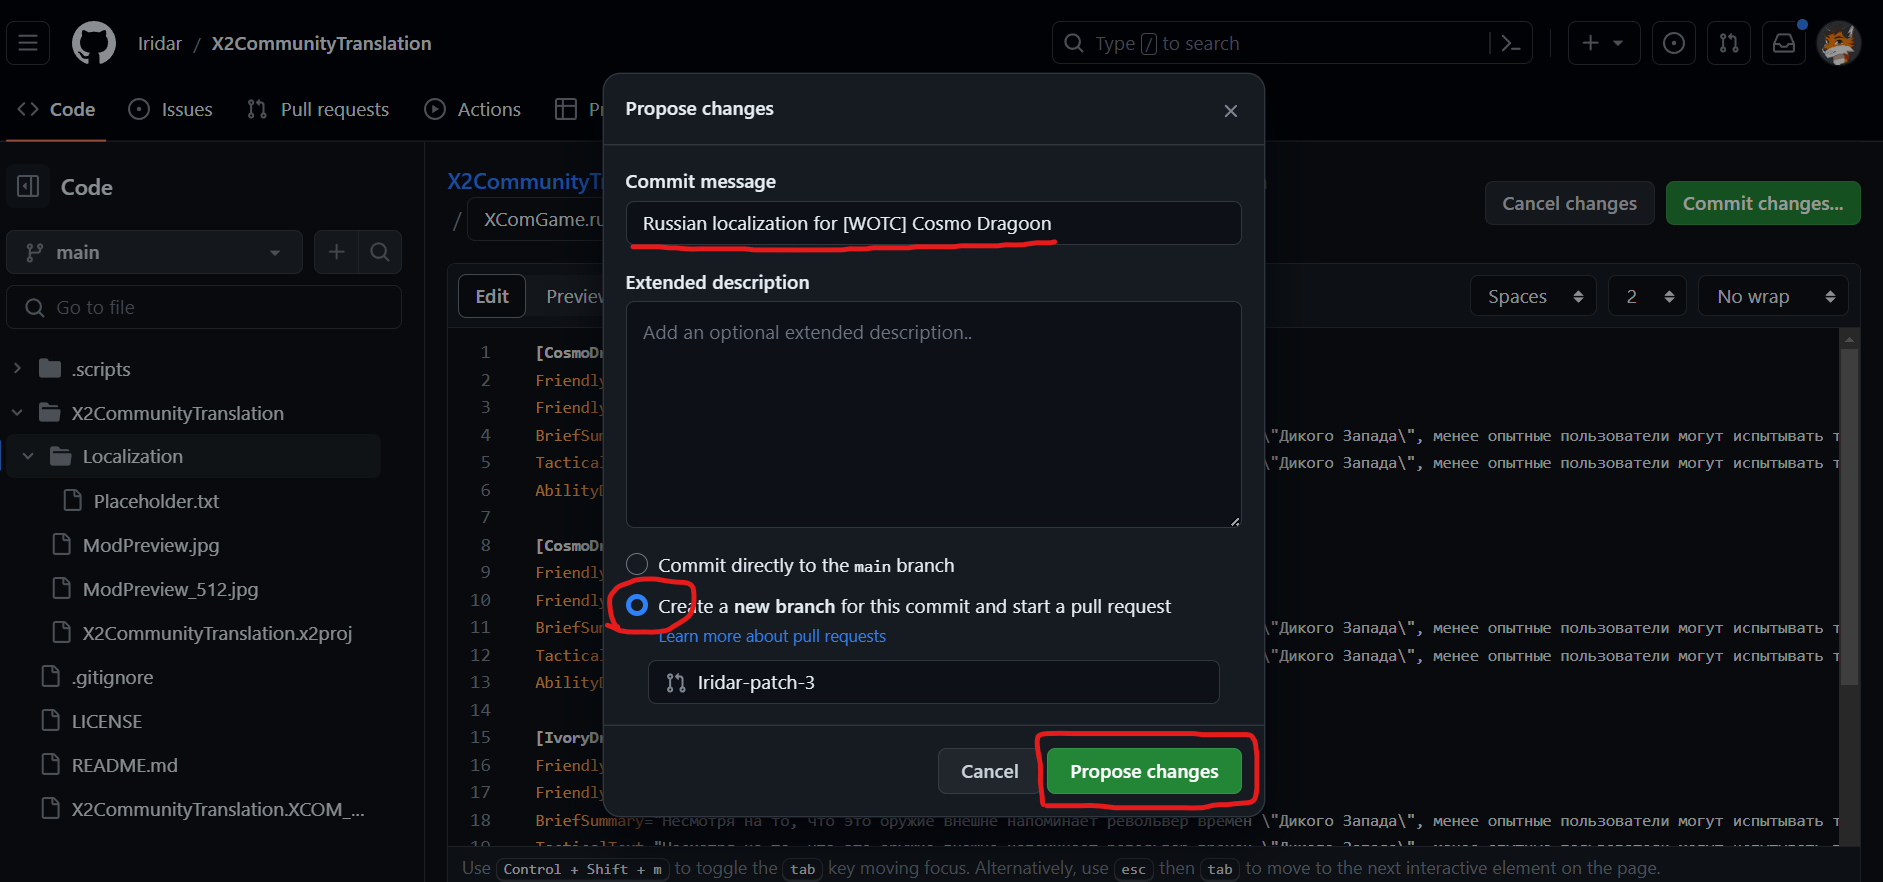
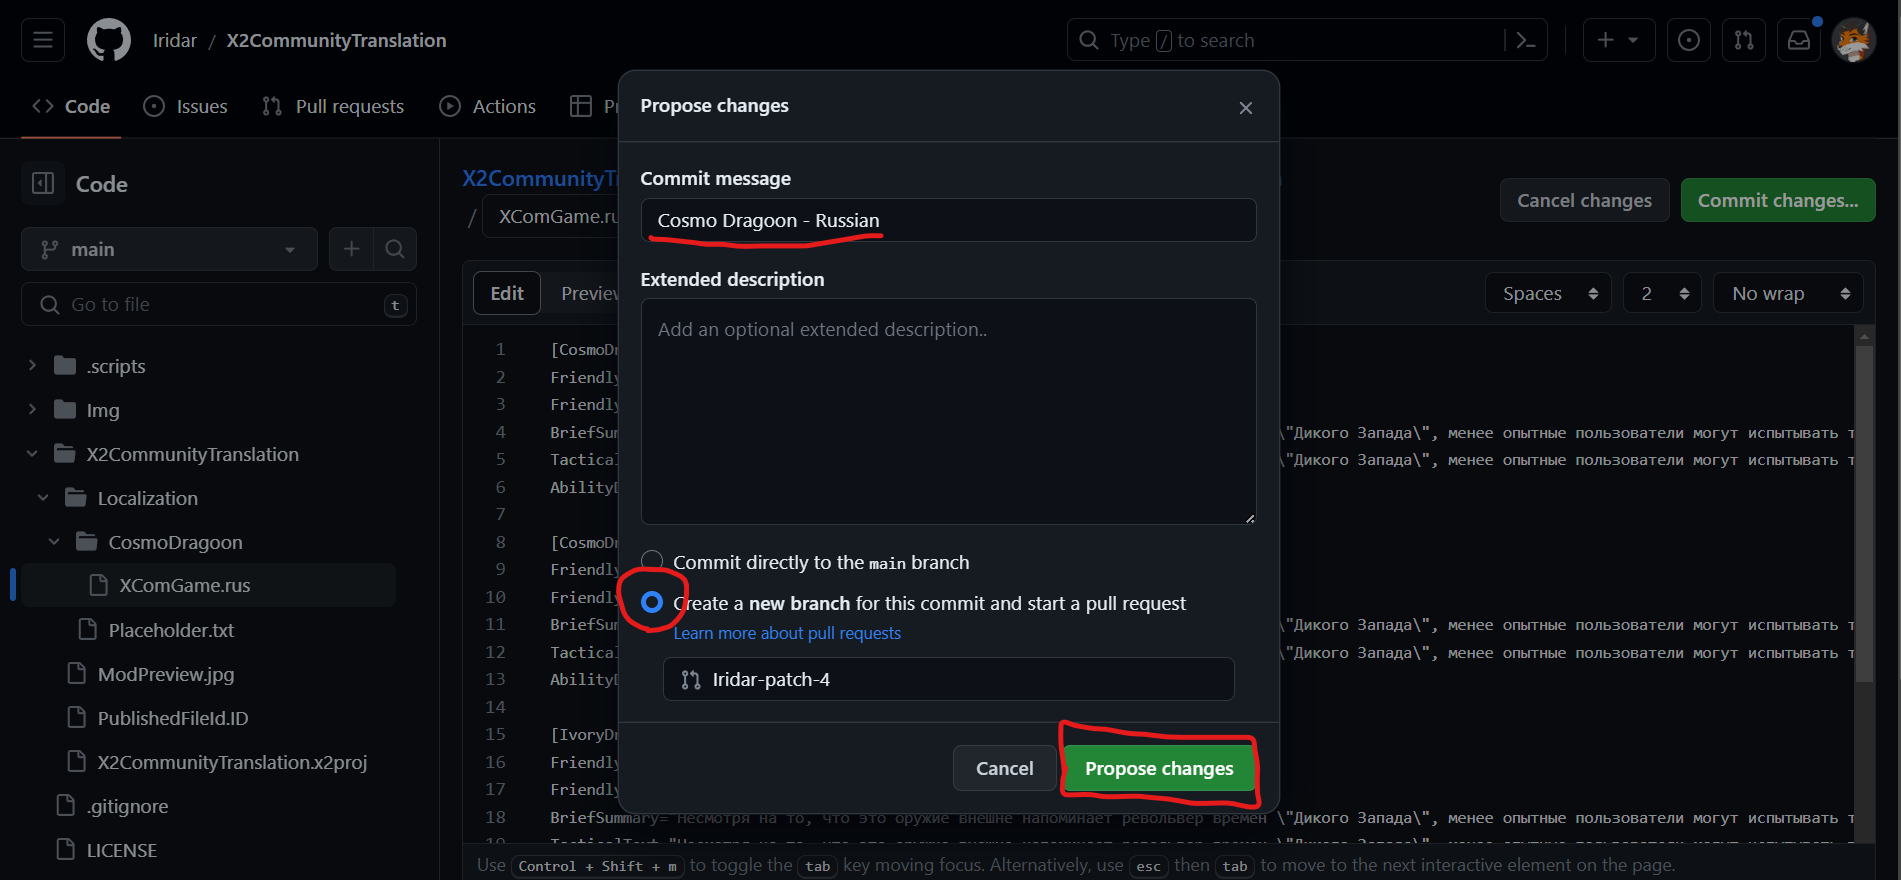
Update ReadMe.md

diff --git a/README.md b/README.md
@@ -1,12 +1,12 @@
 ![Mod-Logo](https://raw.githubusercontent.com/Iridar/X2CommunityTranslation/main/Img/ModPreview_512.jpg)
 
-# X2 Community Translation Mod
+# XCOM 2 Community Translation Mod
 
 This is a community project for gathering all translations for other XCOM 2 mods in one place. Anyone can submit their translation for any existing mod, and it will be added to the Community Translation Mod.
 
 ## I am a mod user, how do I use this?
 
-Subscribe to the mod on the [Steam Workshop]*https://steamcommunity.com/sharedfiles/filedetails/?id=3000755533), wait for Steam to download the mod, then activate it in your mod launcher.
+Subscribe to the mod on the **[Steam Workshop](https://steamcommunity.com/sharedfiles/filedetails/?id=3000755533)**, wait for Steam to download the mod, then activate it in your mod launcher.
 
 If you are using a non-Steam version of the game, download the **[latest release](https://github.com/Iridar/X2CommunityTranslation/releases/latest)** and follow **[these instructions](https://www.reddit.com/r/xcom2mods/wiki/index/download_mods#wiki_how_to_install_mods_manually)** to install it manually.
 
@@ -14,19 +14,20 @@ If you are using a non-Steam version of the game, download the **[latest release
 
 Submissions are handled via GitHub interface.
 
-1. Sign into your GitHub account. If you don't have a GitHub account, **[register one](https://github.com/join)**.
+1. Sign into your GitHub account. **[Sign up](https://github.com/join)** if you don't have one.
 2. Follow **[this link](https://github.com/Iridar/X2CommunityTranslation/tree/main/X2CommunityTranslation/Localization)** to open this mod's Localization folder.
+3. In the top right, click **Add file -> Create new file**
 
 ![Instruction_1](https://raw.githubusercontent.com/Iridar/X2CommunityTranslation/main/Img/Instruction_1.png)
 
-3. In the top right, click **Add file -> Create new file**
+4. In the top bar, you will see "Name your file" text field. Use the following template: `ModName/FileName.Extension`
 
 ![Instruction_2](https://raw.githubusercontent.com/Iridar/X2CommunityTranslation/main/Img/Instruction_2.png)
 
-4. In the top bar, you will see "Name your file" text field. Use the following template: `ModName/FileName.Extension`
-
 **ModName** - the name of the mod's .XComMod file without the extension. Translation for each individual mod should exist in its own folder to make it easy to find and modify.
+
 **FileName** - name of the localized file.
+
 **Extension** - depends on the language you're adding the translation for:
 
 * int - International English
@@ -41,13 +42,14 @@ Submissions are handled via GitHub interface.
 * pol - Polish
 * rus - Russian
 
+5. Enter the translated text into the main window and lick the green button "Commit changes"
+
 ![Instruction_3](https://raw.githubusercontent.com/Iridar/X2CommunityTranslation/main/Img/Instruction_3.png)
 
-5. Enter the translated text into the main window and lick the green button "Commit changes"
+6. In the Commit message text field, enter the `<mod name> - <language>`. Select "Create a new branch for this commit and start a pull request" and click the green button "Propose changes".
 
 ![Instruction_4](https://raw.githubusercontent.com/Iridar/X2CommunityTranslation/main/Img/Instruction_4.png)
 
-6. In the Commit message text field, enter the "<language> localization for mod <mod name>". Select "Create a new branch for this commit and start a pull request" and click the green button "Propose changes".
 7. A new page will open. Click the green button "Create pull request".
 
 ![Instruction_5](https://raw.githubusercontent.com/Iridar/X2CommunityTranslation/main/Img/Instruction_5.png)
